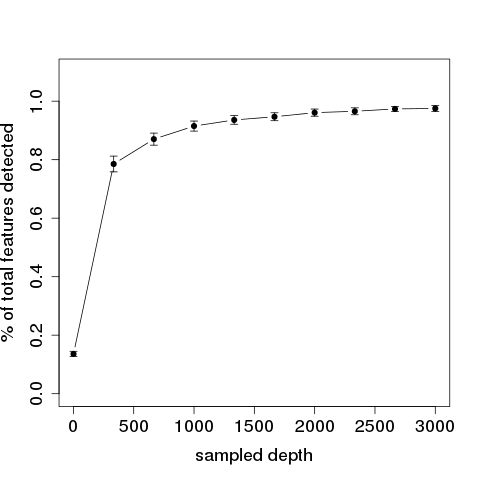
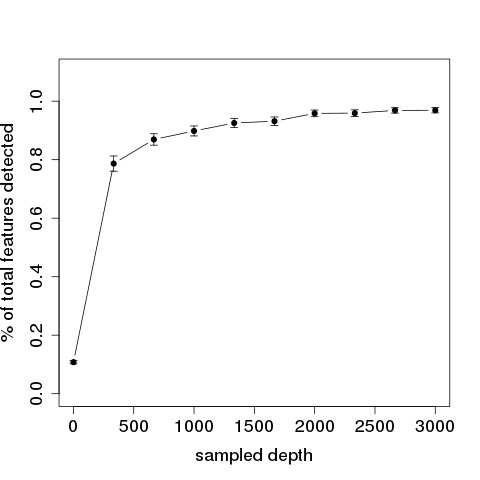
new figure S2

diff --git a/README.md b/README.md
@@ -16,12 +16,23 @@ For now, the raw data is on the Robertson lab HCS storage  at otago uni:
 
 /home/ludovic.dutoit/projectsmb://storage.hcs-p01.otago.ac.nz/sci-zoology-kakapogenome/Ludo/YEP_poo_16S_eDNAs/
 
-## Output files:
+The processed and archive data is stored on : ...
 
-*to come*
 
-Methods.txt
-Input
+## Output files
+
+Those files are in the output folder and are to be archived with the manuscript:
+
+
+[cephalo_proportion_tables.txt](output/cephalo_proportion_tables.txt) contains the broad classification of sequences into target and non target species for cephalopods sequences.
+
+[chordates_proportion_tables.txt](output/chordates_proportion_tables.txt) contains the broad classification of sequences into target and non target species for chordates sequences.
+[final_table_cephalo.csv](output/final_table_cephalo.csv) Contains the taxonomically assigned cephalo dataset
+[final_table_chordates.csv](output/final_table_chordates.csv) Contains the taxonomically assigned chordates dataset
+[taxonomy_cephalo.qzv](output/taxonomy_cephalo.qzv) match unique sequences to taxonomy with confidence score
+[taxonomy_chordates.qzv](output/taxonomy_chordates.qzv) match unique sequences to taxonomy with confidence score
+[sampled_alpha_chordates.png](output/sampled_alpha_chordates.png) figure S2 for alpha rarefaction
+[observed_otus.csv](output/observed_otus.csv) raw data for alpha rarefaction plot
 
 ## Source files
 the original data consists of 16S samples for 220 penguins. 1 is metagenomic data. The other 219 are 16S amplicon sequenced with 2 pairs of primers, one to amplify a cephalopod 16S fragment and one to amplify a fish 16S fragment.
@@ -83,14 +94,12 @@ We outputted:
 
 
 ## completeness of database
-*This has not been edited after adding opalfishes*
-We compared the list of records to the species presnece in our databases using [specieslist_vs_database_primer_spec.py](specieslist_vs_database_primer_spec.py) and a bit of manual editing to produce the file: [metadata/database_completedness.csv](metadata/database_completedness.csv)
+*This has not been edited after adding opalfishes, so the opalfish have been updates*
+We compared the list of records to the species presnece in our databases using [specieslist_vs_database_primer_spec.py](specieslist_vs_database_primer_spec.py) and a bit of manual editing to produce the file: [metadata/database_completedness.csv](metadata/database_completedness.csv). 
 
-<<<<<<< HEAD
 
-**FOR MEL downstream filtering**
-=======
-## Extra figure:
+## Alpha rarefaction
 
-plot_table.png
->>>>>>> 9045bcef0b924a42e813d88ed5a6b9e1a7a3f51a
+It is done within downstreamfiltering.md using a downloaded alpha rarefaction qzv file into the script evaluatealphararechordates.R
+
+

diff --git a/downstreamfiltering.md b/downstreamfiltering.md
@@ -52,7 +52,7 @@ qiime diversity alpha-rarefaction \
   --m-metadata-file  ~/repos/scripts/YEP_diet/metadata/sample_metadatarare.tsv \
   --o-visualization alpharare50cephalo.qzv
 ```
-I visualise it using [evaluatealphararechordates.R](evaluatealphararechordates.R]) from the downloaded csv out of  alpharare100chordates.qzv
+I visualise it using [evaluatealphararechordates.R](evaluatealphararechordates.R]) from the downloaded csv out of  alpharare100chordates.qzv ass observed_otus.csv.
 
 *Legend*:Alpha rarefaction curves for ray-finned fishes. 175 samples with more than 3000 ray-finned fishes reads were randomly sampled for different number of sequences. The y-axis represents the average percentage of the total number of independent type of sequences (i.e. QIIME 2 features) within each sample detected at each depth. The error bars represent the .
 
@@ -160,6 +160,6 @@ all[all%in%indataset==FALSE]
 
 I add them with 0s only to the final cephalopod dataset derived at level 6 and called this: cephalolevel6.csv ( with no metadata)
 
-I then add the metadata using *addmeadatatofinal table.R* and save it as al_table_cephalo.csv
+I then add the metadata using *addmeadatatofinal table.R* and save it as final_table_cephalo.csv
 
 
